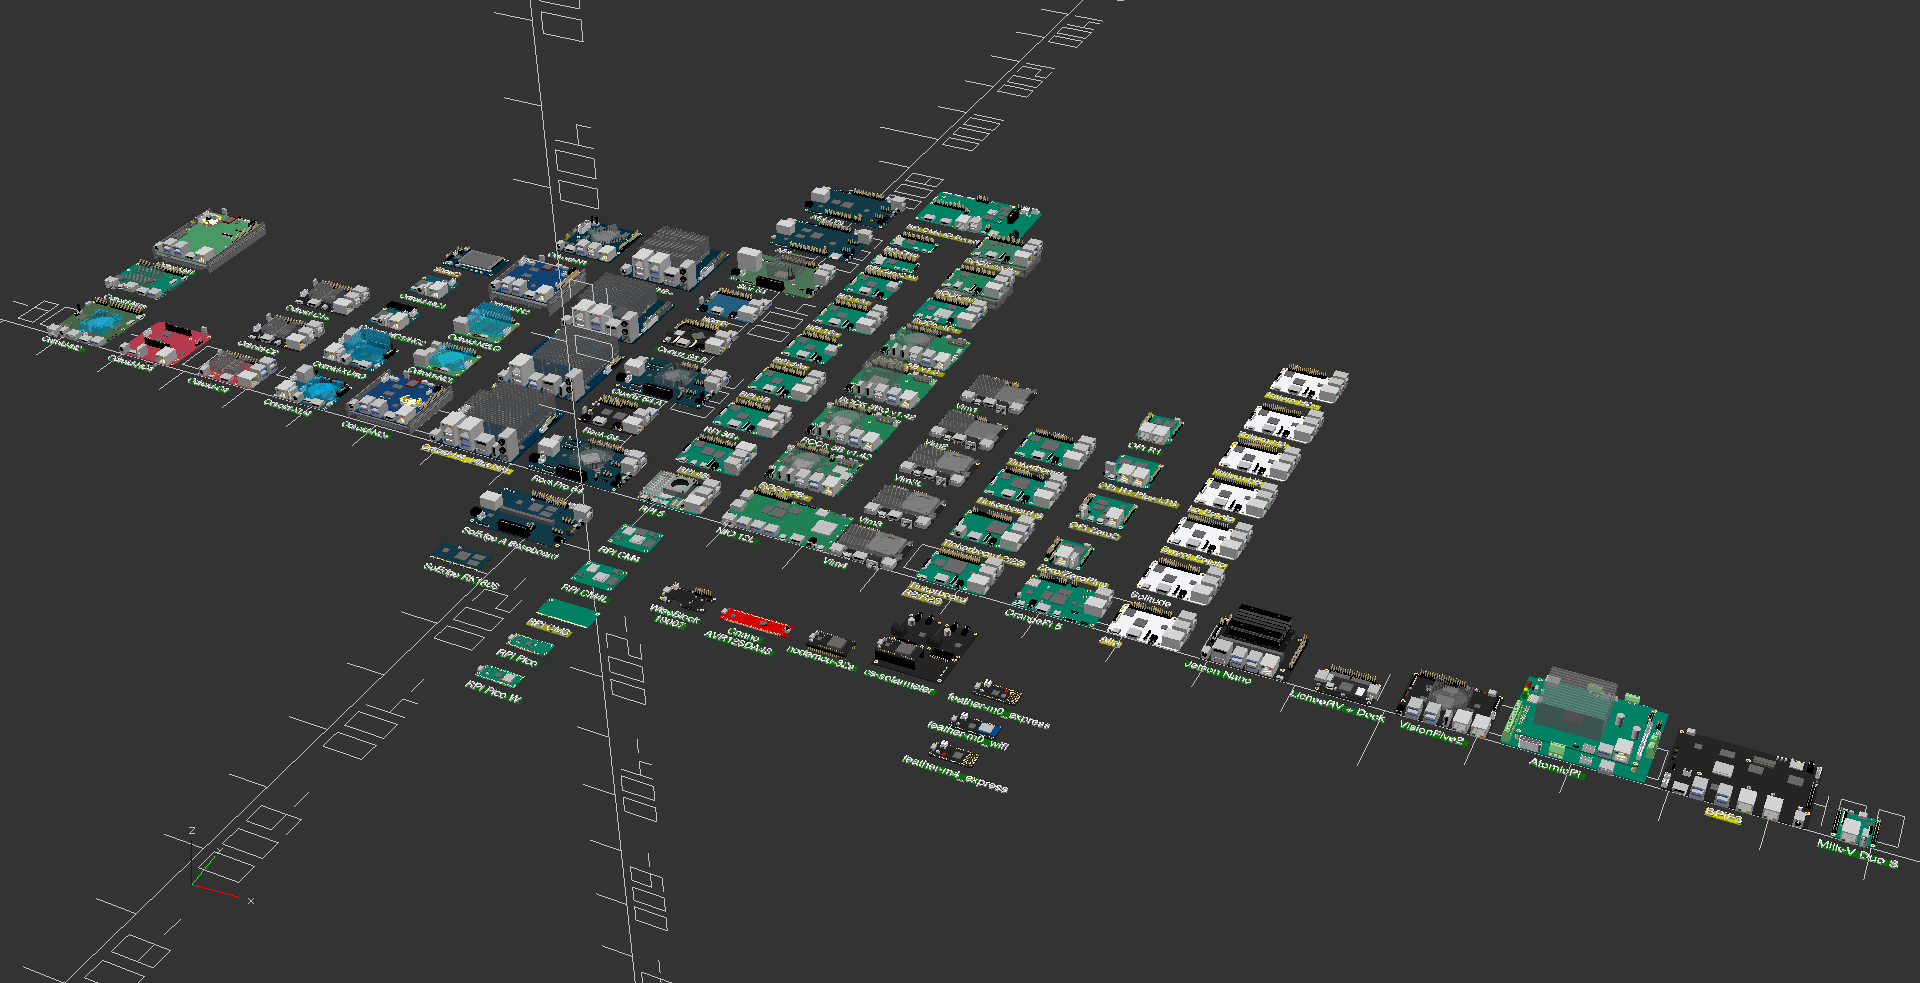
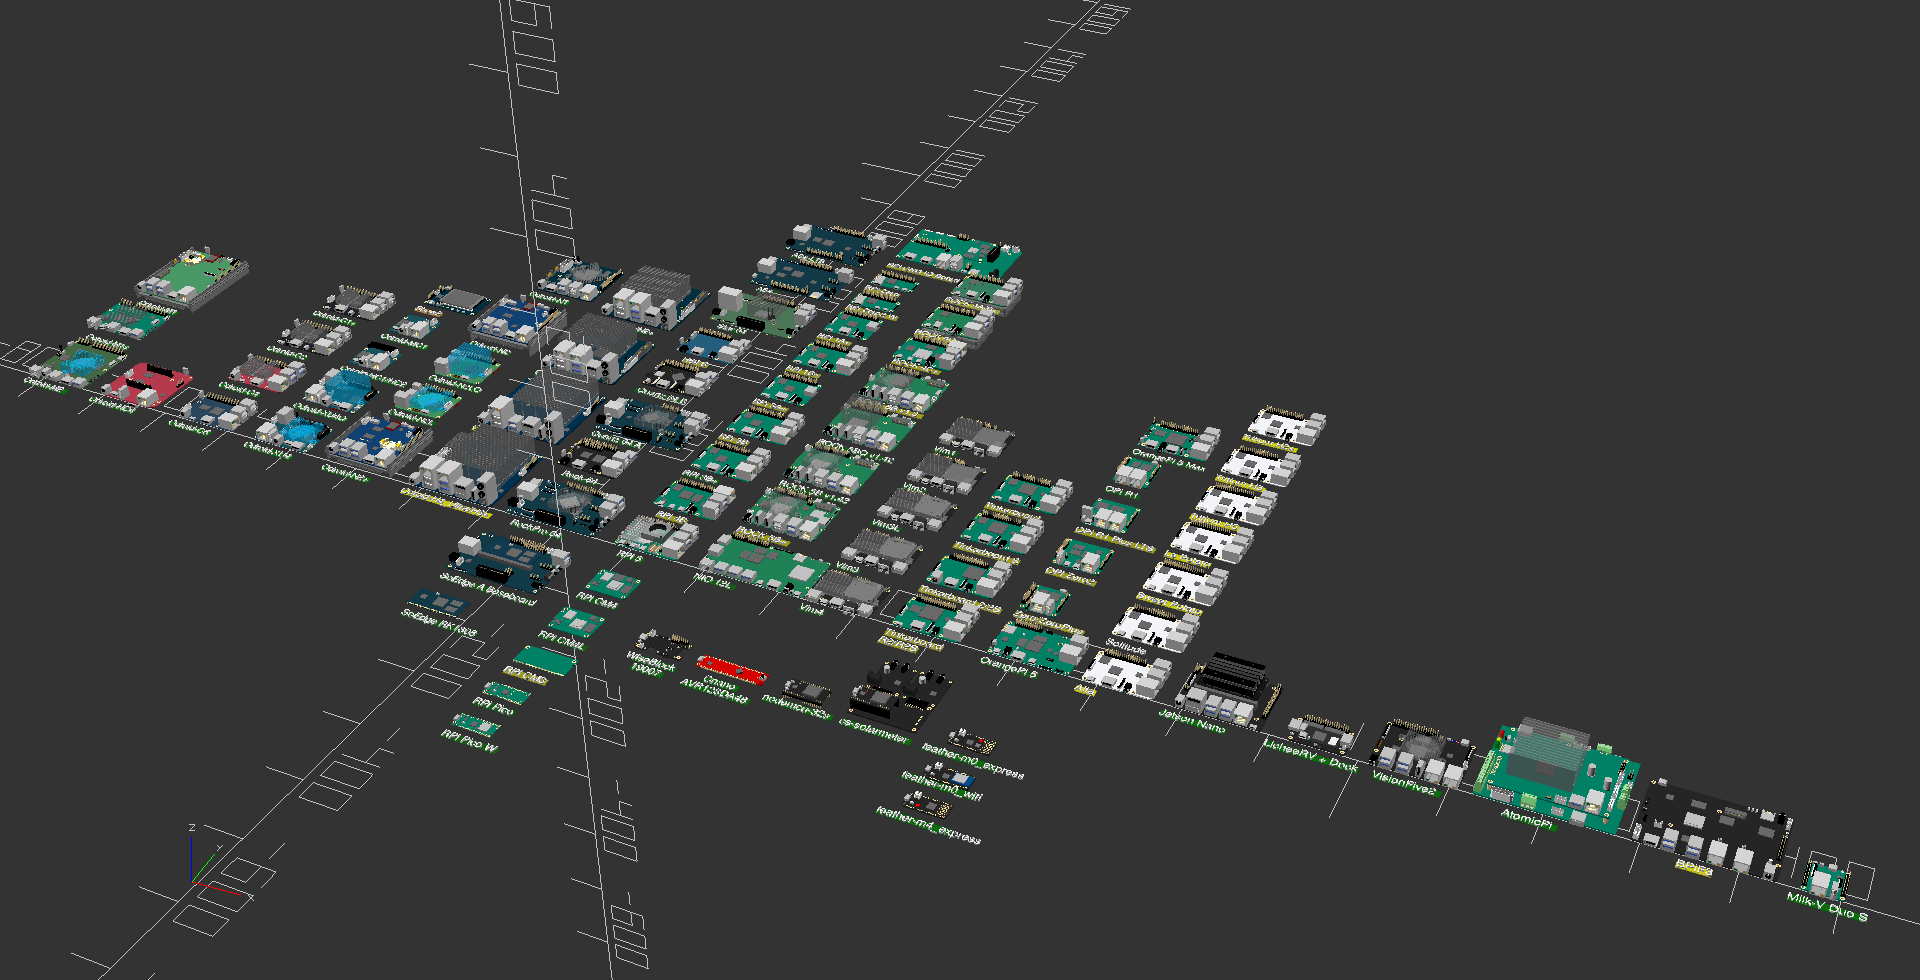
odroid-c5 added to library and viewer, readme.md and sbc_models.png updated

diff --git a/README.md b/README.md
@@ -12,13 +12,13 @@ SBC Model Framework provides 3D models of SBC, MCU, Compute Modules and Carrier 
 ### Current Library
 
 ```
-                  SBC:  80
+                  SBC:  82
        Carrier Boards:   4
       Compute Modules:   9
     Micro Controllers:   9
 Standard Motherboards:  14
            Custom PCB:   1
-        Total Devices: 114
+        Total Devices: 116
 ```
 
 ## Using SBC Model Framework
@@ -33,7 +33,7 @@ sbc("rpi5");
 ```
 USAGE: sbc(model, enableheatsink = "default", fansize = 0, enablegpio =  "default", enableuart =  "default", enablemask = false)
 
-         model = "c1+","c2","c4","xu4","xu4q","mc1","hc1","hc4","n1","n2","n2+","n2l","n2lq",
+         model = "c1+","c2","c4","hc4","c5","xu4","xu4q","mc1","hc1","n1","n2","n2+","n2l","n2lq",
                  "m1","m1s","m2","h2","h2+","h3","h3+","h4","h4+","h4_ultra","show2",
                  "rpipicow","rpipicow","rpizero","rpizero2w","rpi1a+","rpi1b+","rpi3a+","rpi3b","rpi3b+","rpi4b","rpi5",
                  "rpicm1","rpicm3","rpicm3l","rpicm3+","rpicm4","rpicm4l","rpicm1","rpicm4+ioboard",
